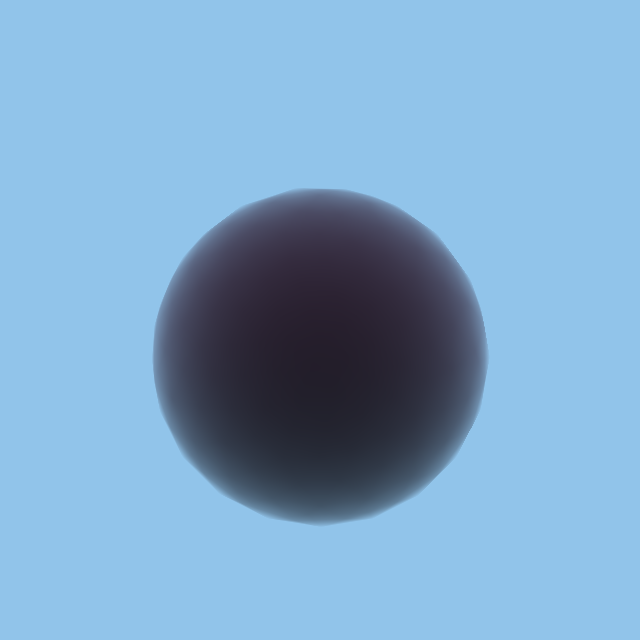
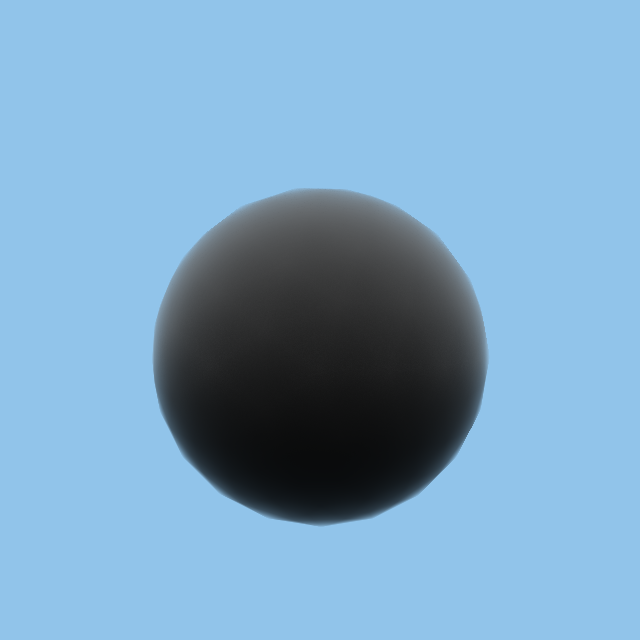
scratchpixel3 done

Changed region(s): [[0.2188, 0.5, 0.7812, 0.8438], [0.375, 0.3125, 0.625, 0.4375]]

diff --git a/VolumeRenderer/RayTracer/IntersectionHandlers/ScratchPixel3IntersectionHandler.cpp b/VolumeRenderer/RayTracer/IntersectionHandlers/ScratchPixel3IntersectionHandler.cpp
@@ -1,4 +1,5 @@
 #include "ScratchPixel3IntersectionHandler.h"
+#include <random>
 
 Vec3f ScratchPixel3IntersectionHandler::HandleIntersection(HandleIntersectionData *data, uint32_t depth, uint32_t reboundFactor)
 {
@@ -15,11 +16,16 @@ Vec3f ScratchPixel3IntersectionHandler::HandleIntersection(HandleIntersectionDat
 			auto distance = data->tFar;
 
 			Vec3f light_dir{ 0, 1, 0 };
-			Vec3f light_color{ 0.325, 0.075, 0.225 };
+			Vec3f light_color{ 13.0f, 13.0f, 13.0f };
 			//absorption coefficient
 			auto sigma_a = 1 - material.dissolve;
 			//scattering coefficient
 			auto sigma_s = sigma_a;
+
+			auto density = 1.0f;
+
+			// asymmetry factor of the phase function
+			float g = 0.0; 
 
 			float step_size = 0.2;
 			int ns = std::ceil(distance / step_size);
@@ -30,11 +36,21 @@ Vec3f ScratchPixel3IntersectionHandler::HandleIntersection(HandleIntersectionDat
 
 			for (size_t n = 0; n < ns; n++)
 			{
-				float t = step_size * (n + 0.5f);
+				static std::default_random_engine e;
+				static std::uniform_real_distribution<> dis(0, 1);
+				auto randomOffset = dis(e);
+				//float t = step_size * (n + 0.5f);
+				// 
+				//we use stochastic sampling to help with banding, even though it introduces noise
+				//Stochastic sampling is a Monte Carlo technique in which we sample 
+				//the function at appropriate non-uniformly spaced locations rather 
+				//than at regularly spaced locations.
+				float t = step_size * (n + randomOffset);
+
 				Vec3f samplePosition = rayOrigin + rayDirection * t;
 
 				//current sample transparency
-				float sampleAttenuation = exp(-step_size * (sigma_a + sigma_s));
+				float sampleAttenuation = exp(-step_size * density * (sigma_a + sigma_s));
 
 				// attenuate volume object transparency by current sample transmission value
 				transparency *= sampleAttenuation;
@@ -46,9 +62,11 @@ Vec3f ScratchPixel3IntersectionHandler::HandleIntersection(HandleIntersectionDat
 				if (Renderer::castSingleRay(data)){
 					auto distanceRayLightToExitInVolume = data->tFar;
 
-					float light_attenuation = exp(-distanceRayLightToExitInVolume * (sigma_a + sigma_s));
+					float cos_theta = Utils::dotProduct(rayDirection, light_dir);
+					float light_attenuation = exp(-distanceRayLightToExitInVolume * density * (sigma_a + sigma_s));
 					// attenuate in-scattering contrib. by the transmission of all samples accumulated so far
-					result += transparency * light_color * light_attenuation * sigma_s * step_size;
+					//result += transparency * light_color * light_attenuation * sigma_s * density * step_size;
+					result += light_color * light_attenuation * density * sigma_s * PhaseFunction::heyney_greenstein(g, cos_theta) * transparency * step_size;
 				}		
 			}						
 

diff --git a/VolumeRenderer/RayTracer/IntersectionHandlers/ScratchPixel3IntersectionHandler.h b/VolumeRenderer/RayTracer/IntersectionHandlers/ScratchPixel3IntersectionHandler.h
@@ -5,10 +5,11 @@
 #include "BaseIntersectionHandler.h"
 #include "../Utils\Utils.h"
 #include "..\Renderer.h"
+#include "../Utils/PhaseFunction.h"
 
 /// <summary>
-/// Scratchpixel - Forward ray marcher
-/// https://www.scratchapixel.com/lessons/3d-basic-rendering/volume-rendering-for-developers/ray-marching-algorithm.html
+/// Scratchpixel - Improving forward ray marcher
+/// https://www.scratchapixel.com/lessons/3d-basic-rendering/volume-rendering-for-developers/ray-marching-get-it-right.html
 /// </summary>
 
 class ScratchPixel3IntersectionHandler :

diff --git a/VolumeRenderer/RayTracer/Utils/PhaseFunction.cpp b/VolumeRenderer/RayTracer/Utils/PhaseFunction.cpp
@@ -1,0 +1,8 @@
+#include "PhaseFunction.h"
+
+// the Henyey-Greenstein phase function
+float PhaseFunction::heyney_greenstein(const float& g, const float& cos_theta)
+{
+	float denom = 1 + g * g - 2 * g * cos_theta;
+	return 1 / (4 * M_PI) * (1 - g * g) / (denom * sqrtf(denom));
+}

diff --git a/VolumeRenderer/RayTracer/Utils/PhaseFunction.h b/VolumeRenderer/RayTracer/Utils/PhaseFunction.h
@@ -1,0 +1,13 @@
+#pragma once
+#ifndef VOLUMERENDERER_PHASEFUNCTION
+#define VOLUMERENDERER_PHASEFUNCTION
+
+#include "Types.h"
+
+class PhaseFunction
+{
+public:
+	static float heyney_greenstein(const float& g, const float& cos_theta);
+};
+
+#endif
